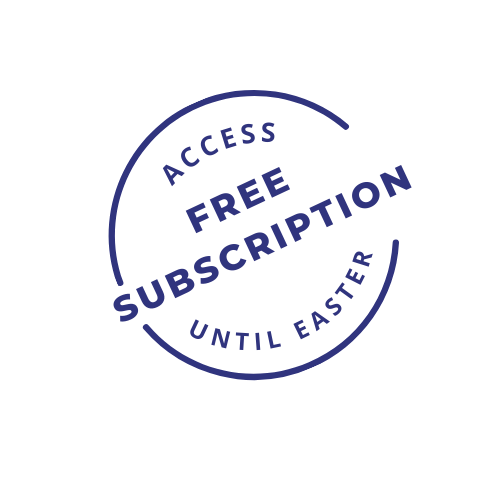
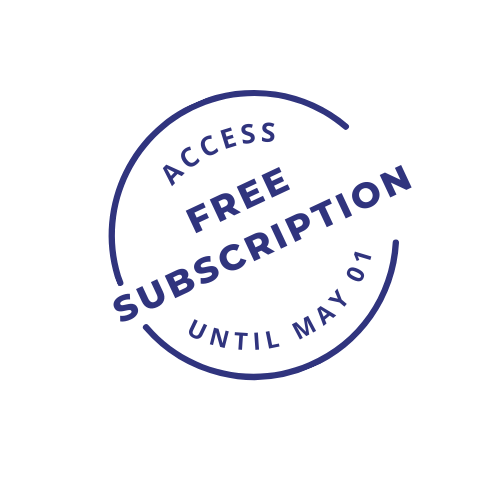
Merged in feature/SHOR-1293 (pull request #3031)
update free subscription image and date time

* update free subscription image and date time

Changed region(s): [[0.36, 0.51, 0.75, 0.72]]

diff --git a/src/routes/Auth/Register/Register.view.tsx b/src/routes/Auth/Register/Register.view.tsx
@@ -81,7 +81,7 @@ import {
   TRANSACTION_VALUES,
   SELLER_REVERSE_MARKET_FEAT,
   BUYER_REVERSE_MARKET_FEAT,
-  EASTER_DATE,
+  NEW_SAAS_END_DATE,
 } from './Register.constants';
 import { RegisterGeneratedProps, StepFormProps } from './Register.props';
 import {
@@ -2784,7 +2784,7 @@ const RegisterView = (props: RegisterGeneratedProps) => {
         <GetStartedWrapper>
           <SignUpHeader>
             {theme.isSFM ? (
-              moment() >= moment(EASTER_DATE).add(1, 'day') ? (
+              moment() >= moment(NEW_SAAS_END_DATE).add(1, 'day') ? (
                 renderHeaderTexts
               ) : (
                 <div>

diff --git a/src/routes/Auth/Register/Register.constants.ts b/src/routes/Auth/Register/Register.constants.ts
@@ -281,4 +281,4 @@ export const TRANSACTION_VALUES = [
 export const SELLER_REVERSE_MARKET_FEAT = 'FEATURE_REVERSED_MARKETPLACE_SELLER';
 export const BUYER_REVERSE_MARKET_FEAT = 'FEATURE_REVERSED_MARKETPLACE';
 
-export const EASTER_DATE = '2023-04-09T16:00:00.000z';
+export const NEW_SAAS_END_DATE = '2023-05-01T16:00:00.000z';
